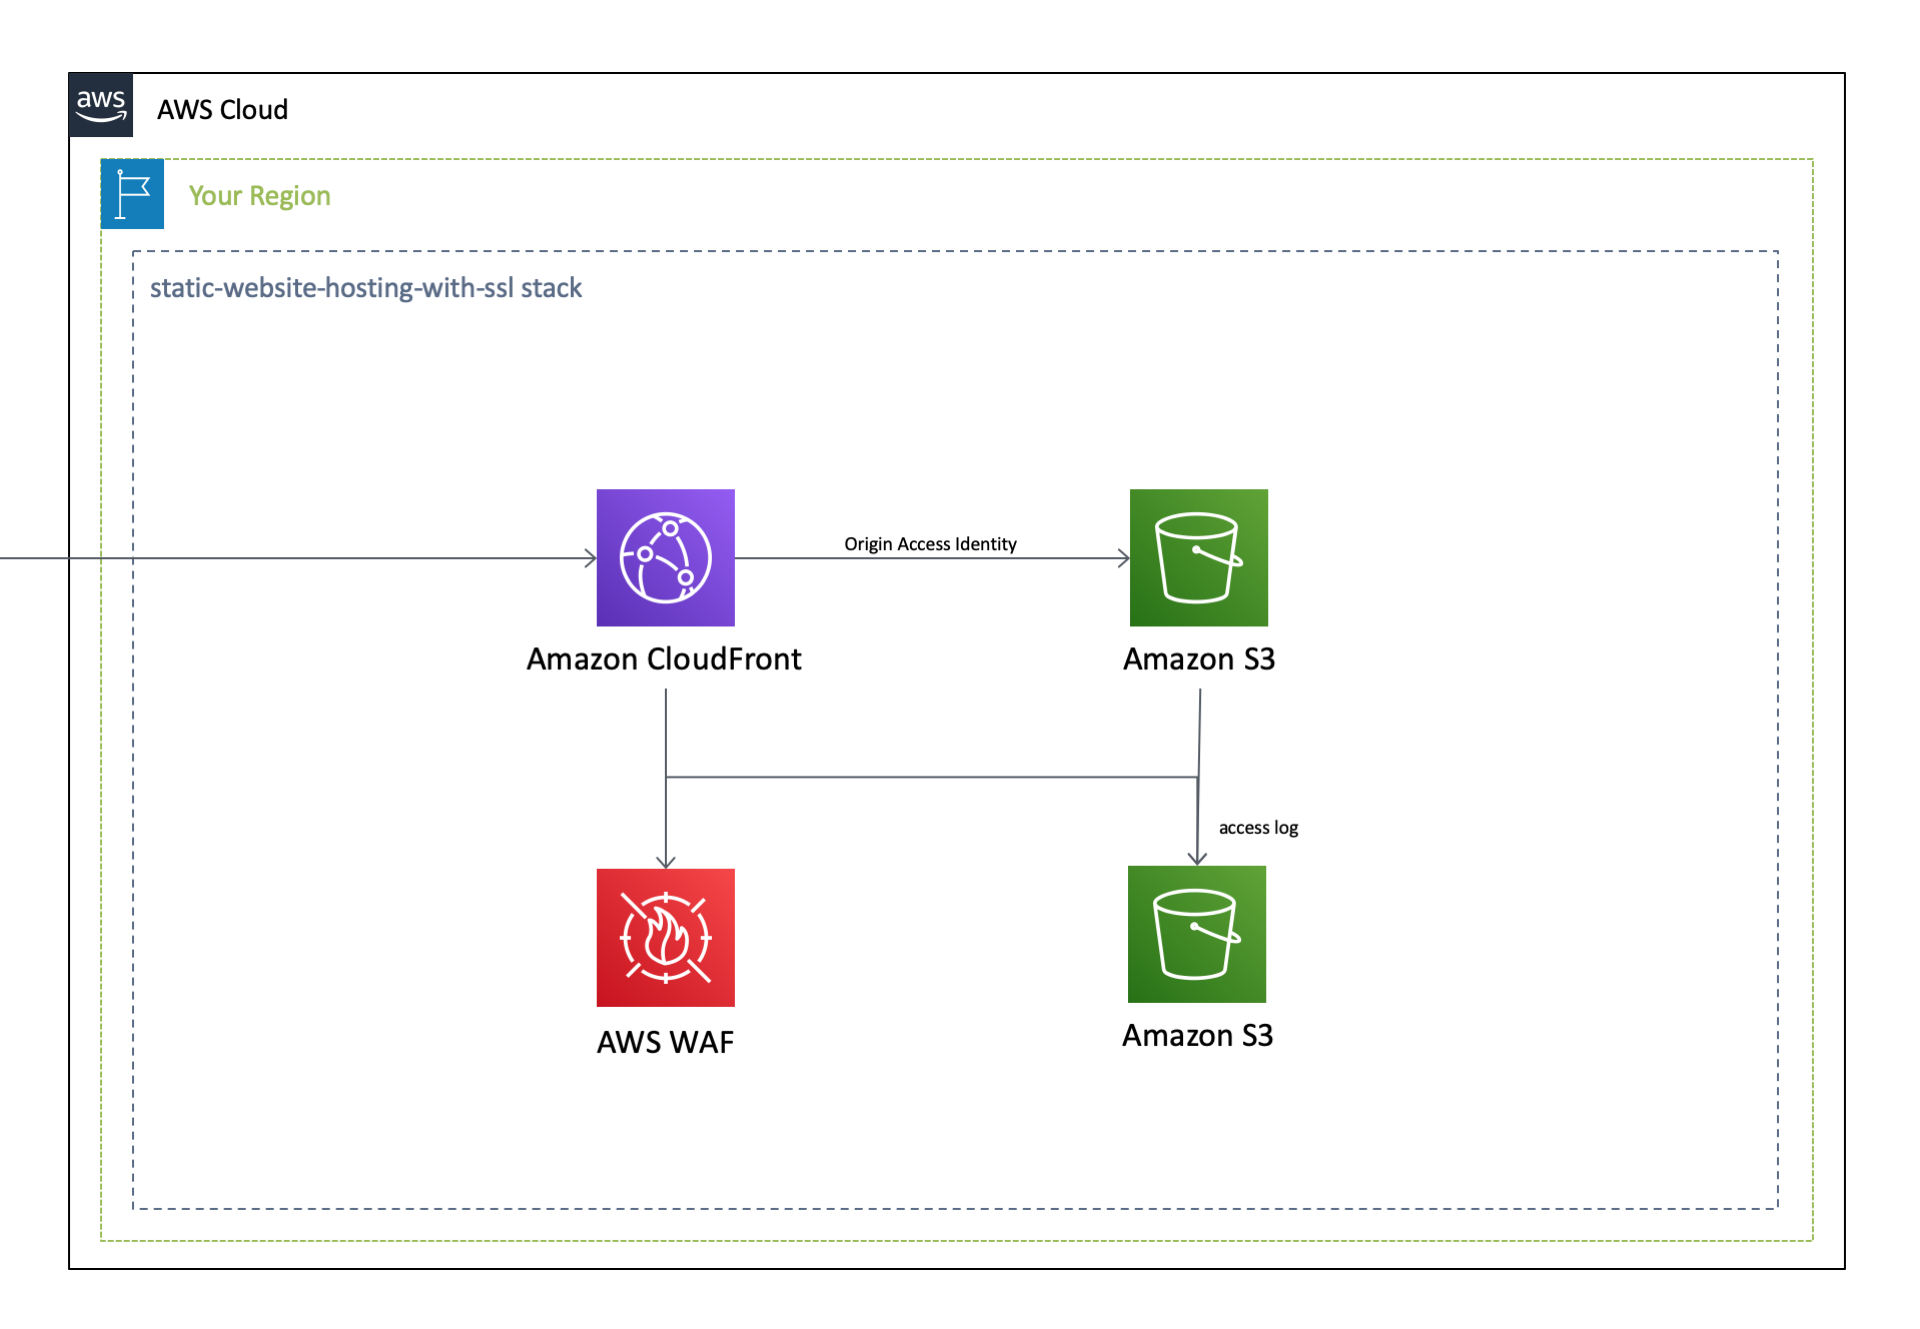
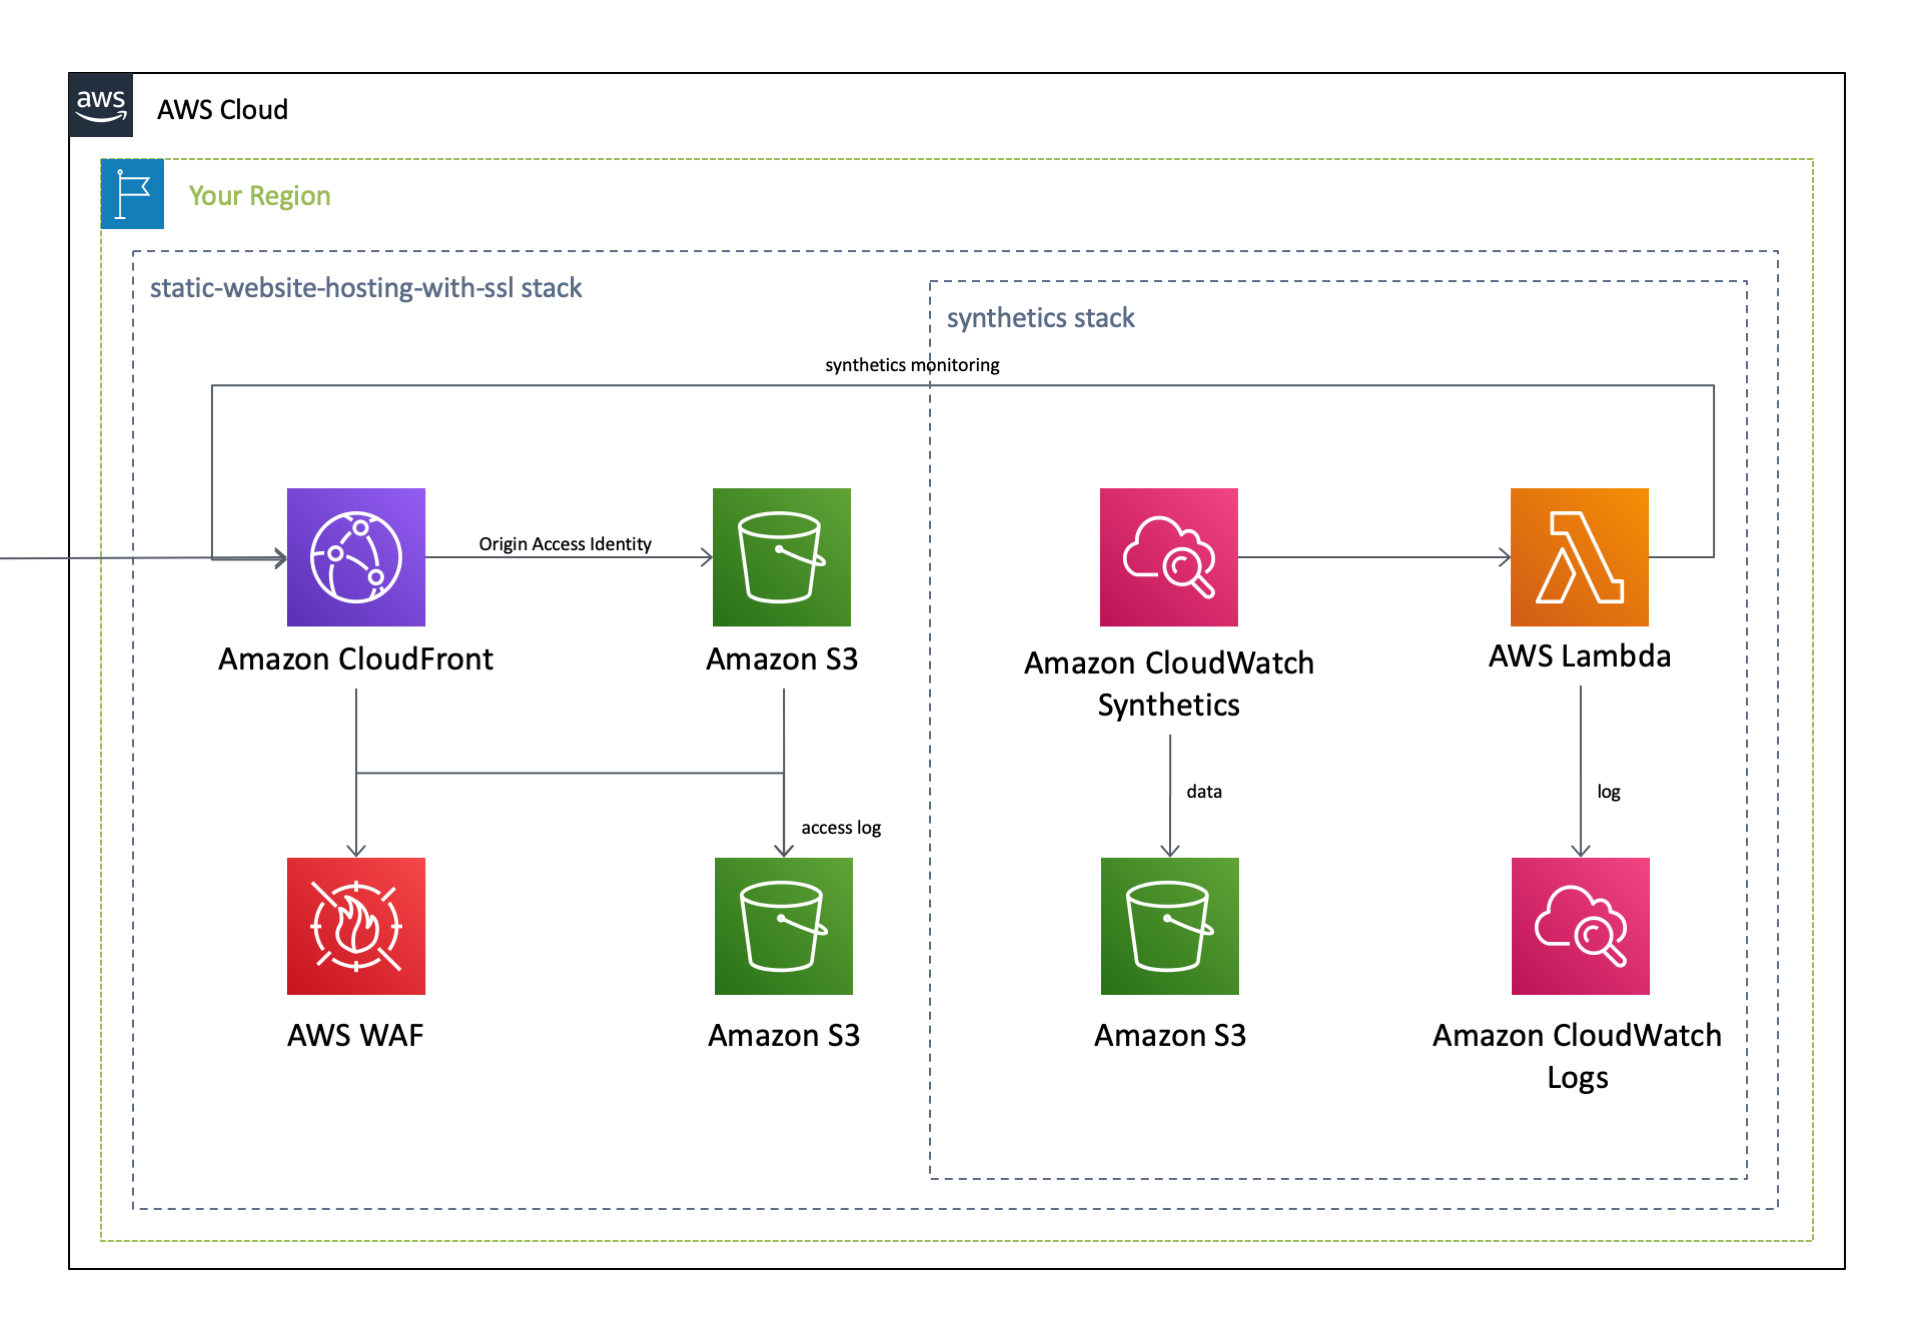
Add a synthetics monitoring function to the static-website-hosting-with-ssl template. (#14)
+ Add CloudWatch Synthetics to the website-hosting.

diff --git a/static-website-hosting-with-ssl/README_JP.md b/static-website-hosting-with-ssl/README_JP.md
@@ -59,6 +59,7 @@ aws cloudformation deploy --template-file template.yaml --stack-name StaticWebsi
 | CloudFront404ErrorResponsePagePath | String | | | エラーコード404のページパス |
 | CloudFront500ErrorResponsePagePath | String | | | エラーコード500のページパス |
 | S3DestinationBucketArnOfCrossRegionReplication | String | | | ARNを指定した場合、**S3** に **クロスリージョンレプリケーション** が設定されます。 |
+| SyntheticsCanaryName | String | | | SyntheticsCanaryNameを指定した場合、 **CloudWatch Synthetics** が有効化されます。 |
 | LoggingEnabled | Enabled / Disabled | Enabled | ○ | Enabledを指定した場合、**CloudFront** と **S3** のログ機能が有効化されます。 |
 | LogBacketName | String | | ○ | バケット名を指定しなかった場合、ログが保管されるバケット名は、 'defaultsecuritysettings-logs-${AWS::Region}-${AWS::AccountId}' になります。 |
 | WebACL | Enabled / Disabled | Disabled | ○ | Disabled に設定された場合、AWS WAFは作成されません。 |

diff --git a/static-website-hosting-with-ssl/README.md b/static-website-hosting-with-ssl/README.md
@@ -61,6 +61,7 @@ You can provide optional parameters as follows.
 | CloudFront404ErrorResponsePagePath | String | | | The path to the 404 custom error page |
 | CloudFront500ErrorResponsePagePath | String | | | The path to the 500 custom error page |
 | S3DestinationBucketArnOfCrossRegionReplication | String | | | If it's NOT empty, Cross region replication is enabled on **S3**. |
+| SyntheticsCanaryName | String | | | If it's NOT empty, CloudWatch Synthetics is enabled. |
 | LoggingEnabled | Enabled / Disabled | Enabled | ○ | If Enabled, Logging is enabled on **CloudFront** and **S3**. |
 | LogBacketName | String | | ○ | If it's empty, the bucket name logging data are stored is named 'defaultsecuritysettings-logs-${AWS::Region}-${AWS::AccountId}'. |
 | WebACL | Enabled / Disabled | Disabled | ○ | If **Disabled** is set, AWS WAF does NOT created. |
